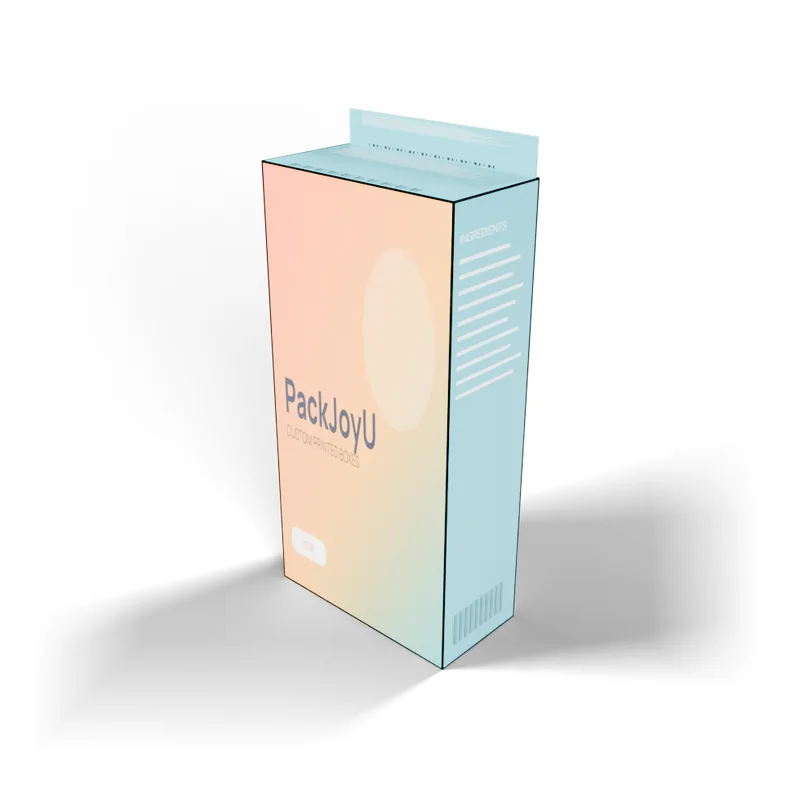
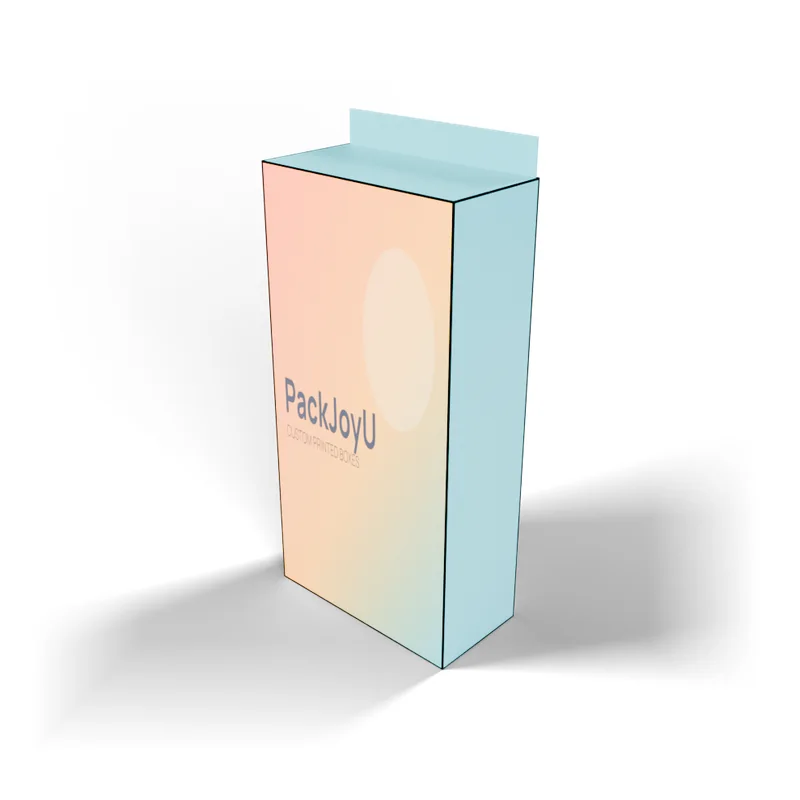
fix(3d): plain color box print (PackJoyU wordmark only; drop NEW badge, ingredients panel, barcode); rebuild GLB + poster

Changed region(s): [[0.5625, 0.2812, 0.6562, 0.5], [0.5625, 0.75, 0.625, 0.8125], [0.3438, 0.6562, 0.4062, 0.7188]]

diff --git a/src/data/products.ts b/src/data/products.ts
@@ -2,7 +2,7 @@
 export type Product = { slug: string; model?: string; poster: string; animated?: boolean; animationClips?: { open?: string; unfold?: string }; /** 品类落地页路径（上线后填写），卡片显示 Learn more */ landing?: string };
 export const products: Product[] = [
   { slug: 'corrugated-boxes', model: '/models/corrugated-box.anim.da398ca9.glb', poster: '/images/posters/custom-corrugated-boxes.webp', animated: true, animationClips: { open: 'Open' } },
-  { slug: 'color-boxes', model: '/models/color-box.116a0be0.glb', poster: '/images/posters/custom-color-boxes.webp' },
+  { slug: 'color-boxes', model: '/models/color-box.355d50bc.glb', poster: '/images/posters/custom-color-boxes.webp' },
   { slug: 'gift-boxes', model: '/models/gift-box.anim.ccfb2baa.glb', poster: '/images/posters/custom-gift-boxes.webp', animated: true, animationClips: { open: 'Open' } },
   { slug: 'pulp-molding', model: '/models/pulp-egg-tray.3d60dd23.glb', poster: '/images/posters/custom-pulp-molding.webp' },
   { slug: 'paper-cups', model: '/models/paper-cup.8375532a.glb', poster: '/images/posters/custom-paper-cups.webp' },
